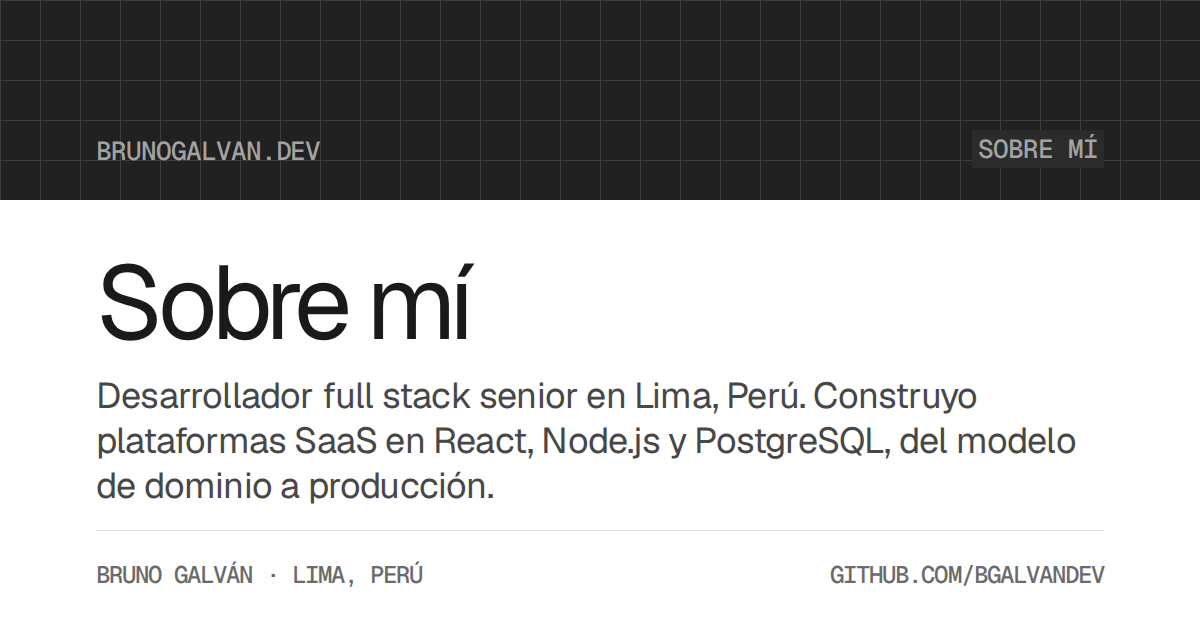
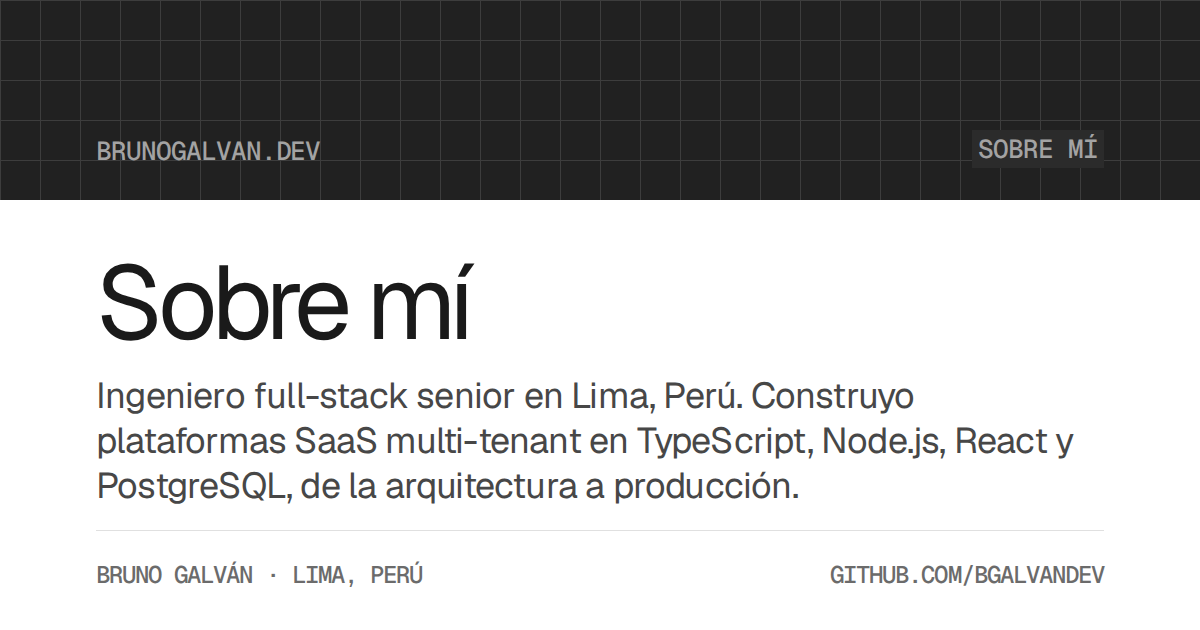
fix: align titles, projects and stack with the current record (#79)

Changed region(s): [[0.0617, 0.6032, 0.8942, 0.7238], [0.0617, 0.7238, 0.6783, 0.8143]]

diff --git a/src/data/projects.ts b/src/data/projects.ts
@@ -24,8 +24,8 @@ export const projects = [
     ],
   },
   {
-    id: 'vitalpro',
-    name: 'VitalPro',
+    id: 'asistira',
+    name: 'Asistira',
     kind: 'product',
     repository: null,
     demo: null,
@@ -36,7 +36,6 @@ export const projects = [
       'Prisma',
       'PostgreSQL',
       'Nx',
-      'Fly.io',
     ],
   },
   {
@@ -47,14 +46,6 @@ export const projects = [
     repository: 'https://github.com/bgalvandev/brunogalvan.dev',
     demo: null,
     technologies: ['Astro', 'TypeScript', 'Tailwind CSS', 'GSAP', 'Playwright'],
-  },
-  {
-    id: 'placer-sano',
-    name: 'Placer Sano',
-    kind: 'project',
-    repository: 'https://github.com/bgalvandev/placersano-restaurant',
-    demo: 'https://placer-sano.netlify.app',
-    technologies: ['Astro', 'CSS', 'Netlify'],
   },
 ] as const satisfies readonly {
   id: string;

diff --git a/src/data/stack.ts b/src/data/stack.ts
@@ -1,5 +1,5 @@
 // The current stack, grouped by capability: what Bruno's own commits show in
-// his 2025–2026 work (ClinicSay, VitalPro and this site), checked against the
+// his 2025–2026 work (ClinicSay, Asistira and this site), checked against the
 // repositories on 2026-09-22. Team-built parts of a product he did not touch
 // are left out, and so is anything only older work used; that history stays in
 // each role. Group names are visible text, so they live in the catalogs under
@@ -39,7 +39,6 @@ export const stack = {
   platform: [
     'Docker',
     'GitHub Actions',
-    'Fly.io',
     'Cloudflare',
     'Vitest',
     'Playwright',

diff --git a/src/components/tech-marks.ts b/src/components/tech-marks.ts
@@ -5,11 +5,9 @@ import {
   siDocker,
   siEslint,
   siFastify,
-  siFlydotio,
   siGit,
   siGithubactions,
   siGsap,
-  siNetlify,
   siNextdotjs,
   siNodedotjs,
   siNx,
@@ -41,11 +39,9 @@ export const marks = new Map(
     Docker: siDocker,
     ESLint: siEslint,
     Fastify: siFastify,
-    'Fly.io': siFlydotio,
     Git: siGit,
     'GitHub Actions': siGithubactions,
     GSAP: siGsap,
-    Netlify: siNetlify,
     'Next.js': siNextdotjs,
     'Node.js': siNodedotjs,
     'Nx monorepo': siNx,

diff --git a/e2e/sections.spec.ts b/e2e/sections.spec.ts
@@ -17,7 +17,7 @@ test('every figure on the page is the figure the record gives', async ({
   await expect(page.locator('.numbers-stat dd')).toHaveText([
     String(counts.yearsSinceFirstRole),
     String(counts.companies),
-    String(counts.publicProjects),
+    String(counts.projects),
     String(counts.technologies),
   ]);
   await expect(page.locator('#projects-title')).toHaveAccessibleName(

diff --git a/src/data/figures.spec.ts b/src/data/figures.spec.ts
@@ -11,9 +11,9 @@ describe('figures read off the record', () => {
       yearsSinceFirstRole: 7,
       firstYear: 2019,
       companies: 4,
-      projects: 4,
-      publicProjects: 2,
-      technologies: 40,
+      projects: 3,
+      publicProjects: 1,
+      technologies: 39,
     });
   });
   it('rounds years down until a full year has passed', () => {
